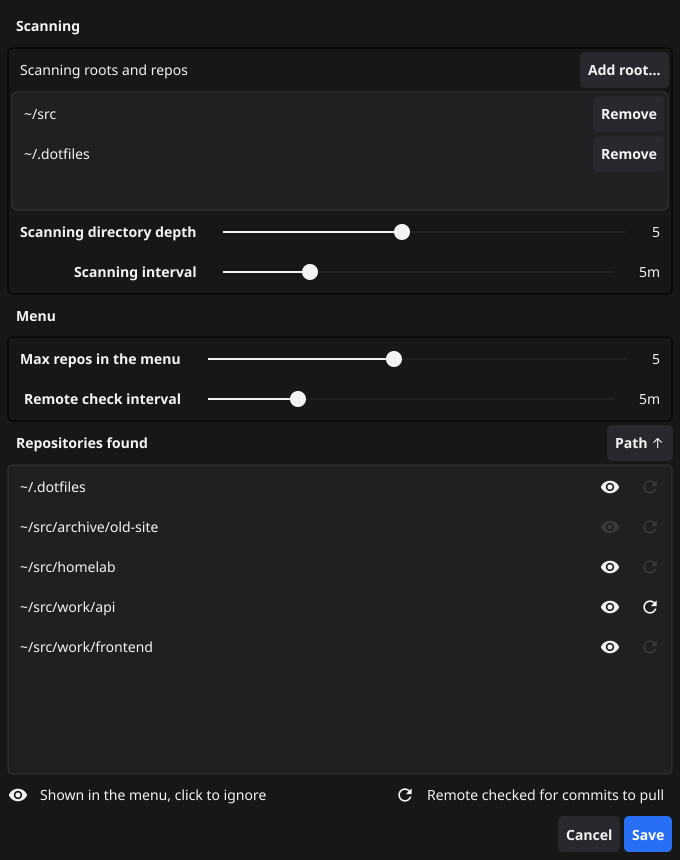
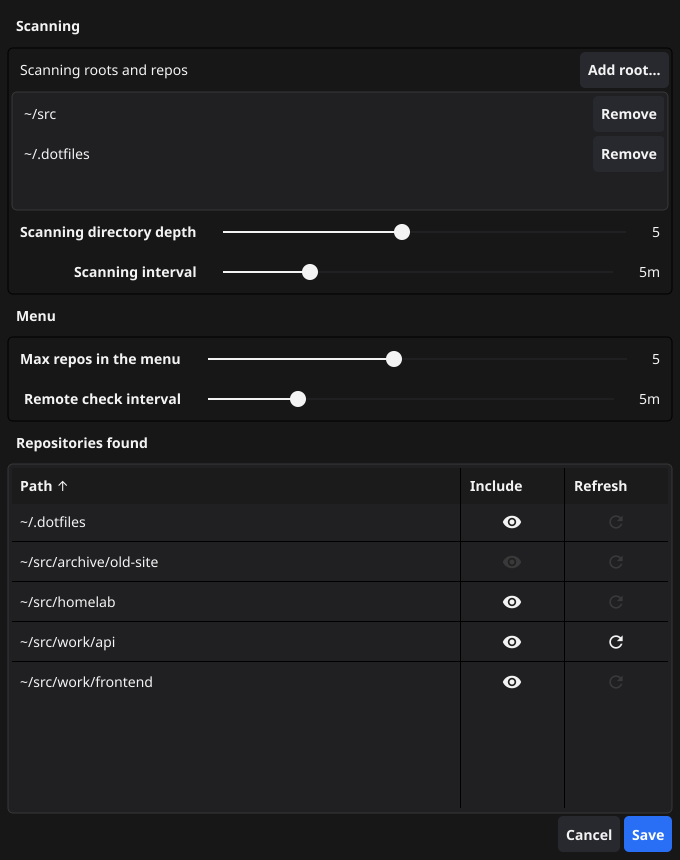
settings: Repositories as a table with sortable Path, Include and Refresh columns

diff --git a/src/settings.go b/src/settings.go
@@ -4,6 +4,7 @@ import (
 	"image/color"
 	"slices"
 	"strconv"
+	"strings"
 	"time"
 
 	"fyne.io/fyne/v2"
@@ -79,40 +80,7 @@ func (t *tray) showSettings() {
 	}
 	buildRoots()
 
-	rows := container.NewVBox()
-	descending := false
-	sortButton := widget.NewButton("", nil)
-	toggle := func(list *[]string, path string) func(bool) {
-		return func(on bool) {
-			*list = slices.DeleteFunc(*list, func(p string) bool { return p == path })
-			if on {
-				*list = append(*list, path)
-			}
-		}
-	}
-	buildRepos := func() {
-		rows.RemoveAll()
-		sortButton.SetText(map[bool]string{false: "Path ↑", true: "Path ↓"}[descending])
-		slices.Sort(found)
-		if descending {
-			slices.Reverse(found)
-		}
-		for _, path := range found {
-			// The eye is lit while the repo is listed, the refresh icon while its
-			// remote is checked
-			ignore := iconToggle(theme.VisibilityIcon(), !slices.Contains(d.Ignore, path), func(on bool) { toggle(&d.Ignore, path)(!on) })
-			remote := iconToggle(theme.ViewRefreshIcon(), slices.Contains(d.CheckRemote, path), toggle(&d.CheckRemote, path))
-			rows.Add(container.NewBorder(nil, nil, nil, container.NewHBox(ignore, remote), widget.NewLabel(tilde(path))))
-		}
-		if len(rows.Objects) == 0 {
-			rows.Add(widget.NewLabel("No repositories found yet."))
-		}
-	}
-	sortButton.OnTapped = func() {
-		descending = !descending
-		buildRepos()
-	}
-	buildRepos()
+	reposTable := t.reposTable(found, &d)
 
 	rootsList := container.NewVScroll(roots)
 	rootsList.SetMinSize(fyne.NewSize(0, 110))
@@ -128,17 +96,10 @@ func (t *tray) showSettings() {
 		widget.NewFormItem("Max repos in the menu", max),
 		widget.NewFormItem("Remote check interval", remoteEvery),
 	))
-	// The sunken list is frame enough
-	reposTitle := widget.NewLabelWithStyle("Repositories found", fyne.TextAlignLeading, fyne.TextStyle{Bold: true})
-	// fyne has no tooltips, so a legend says what the toggles do
-	legend := container.NewHBox(
-		widget.NewIcon(theme.VisibilityIcon()), widget.NewLabel("Shown in the menu, click to ignore"),
-		layout.NewSpacer(),
-		widget.NewIcon(theme.ViewRefreshIcon()), widget.NewLabel("Remote checked for commits to pull"),
-	)
+	// The sunken table is frame enough
 	repos := container.NewBorder(
-		container.NewBorder(nil, nil, nil, sortButton, reposTitle), legend, nil, nil,
-		sunken(container.NewVScroll(rows)),
+		widget.NewLabelWithStyle("Repositories found", fyne.TextAlignLeading, fyne.TextStyle{Bold: true}), nil, nil, nil,
+		sunken(reposTable),
 	)
 
 	save := widget.NewButton("Save", func() {
@@ -173,24 +134,123 @@ func group(title string, content fyne.CanvasObject) fyne.CanvasObject {
 	)
 }
 
-// iconToggle is a flat button showing icon lit when on and greyed out when off.
-func iconToggle(icon fyne.Resource, on bool, changed func(on bool)) *widget.Button {
-	b := widget.NewButtonWithIcon("", nil, nil)
-	b.Importance = widget.LowImportance
-	show := func() {
-		if on {
-			b.SetIcon(icon)
+// reposTable lists the found repositories with a toggle each for ignoring
+// them and checking their remote. Clicking a header sorts by that column.
+func (t *tray) reposTable(found []string, d *Config) fyne.CanvasObject {
+	headers := []string{"Path", "Include", "Refresh"}
+	icons := []fyne.Resource{nil, theme.VisibilityIcon(), theme.ViewRefreshIcon()}
+	// Whether a column's toggle is on for path; the eye is lit while the repo
+	// is included, the refresh icon while its remote is checked
+	on := func(col int, path string) bool {
+		if col == 1 {
+			return !slices.Contains(d.Ignore, path)
+		}
+		return slices.Contains(d.CheckRemote, path)
+	}
+	flip := func(col int, path string) {
+		list := &d.CheckRemote
+		if col == 1 {
+			list = &d.Ignore
+		}
+		if slices.Contains(*list, path) {
+			*list = slices.DeleteFunc(*list, func(p string) bool { return p == path })
 		} else {
-			b.SetIcon(theme.NewDisabledResource(icon))
+			*list = append(*list, path)
 		}
 	}
-	b.OnTapped = func() {
-		on = !on
-		show()
-		changed(on)
+	sortCol, descending := 0, false
+	sortRows := func() {
+		slices.SortFunc(found, func(a, b string) int {
+			c := 0
+			if sortCol > 0 && on(sortCol, a) != on(sortCol, b) {
+				c = map[bool]int{true: -1, false: 1}[on(sortCol, a)]
+			}
+			if c == 0 {
+				c = strings.Compare(a, b)
+			}
+			if descending {
+				return -c
+			}
+			return c
+		})
 	}
-	show()
-	return b
+	sortRows()
+
+	var table *widget.Table
+	table = widget.NewTableWithHeaders(
+		func() (int, int) { return len(found), len(headers) },
+		func() fyne.CanvasObject {
+			b := widget.NewButtonWithIcon("", nil, nil)
+			b.Importance = widget.LowImportance
+			l := widget.NewLabel("")
+			l.Truncation = fyne.TextTruncateEllipsis
+			return container.NewStack(l, b)
+		},
+		func(id widget.TableCellID, o fyne.CanvasObject) {
+			l, b := o.(*fyne.Container).Objects[0].(*widget.Label), o.(*fyne.Container).Objects[1].(*widget.Button)
+			path := found[id.Row]
+			if id.Col == 0 {
+				l.SetText(tilde(path))
+				l.Show()
+				b.Hide()
+				return
+			}
+			l.Hide()
+			b.Show()
+			if on(id.Col, path) {
+				b.SetIcon(icons[id.Col])
+			} else {
+				b.SetIcon(theme.NewDisabledResource(icons[id.Col]))
+			}
+			b.OnTapped = func() {
+				flip(id.Col, path)
+				table.RefreshItem(id)
+			}
+		},
+	)
+	table.ShowHeaderColumn = false
+	table.CreateHeader = func() fyne.CanvasObject {
+		b := widget.NewButton("", nil)
+		b.Importance = widget.LowImportance
+		b.Alignment = widget.ButtonAlignLeading
+		return b
+	}
+	table.UpdateHeader = func(id widget.TableCellID, o fyne.CanvasObject) {
+		b := o.(*widget.Button)
+		text := headers[id.Col]
+		if id.Col == sortCol {
+			text += map[bool]string{false: " ↑", true: " ↓"}[descending]
+		}
+		b.SetText(text)
+		b.OnTapped = func() {
+			descending = id.Col == sortCol && !descending
+			sortCol = id.Col
+			sortRows()
+			table.Refresh()
+		}
+	}
+	// The path takes what the toggle columns leave
+	const toggleWidth = 100
+	table.SetColumnWidth(1, toggleWidth)
+	table.SetColumnWidth(2, toggleWidth)
+	return container.New(&stretchFirst{table, 2 * toggleWidth}, table)
+}
+
+// stretchFirst sizes a table's first column to the width its other columns
+// leave, which Table doesn't do on its own.
+type stretchFirst struct {
+	table *widget.Table
+	rest  float32
+}
+
+func (s *stretchFirst) Layout(objects []fyne.CanvasObject, size fyne.Size) {
+	// Less the separators between the columns and the scroller's padding
+	s.table.SetColumnWidth(0, max(size.Width-s.rest-2*theme.SeparatorThicknessSize()-2*theme.Padding(), 100))
+	objects[0].Resize(size)
+}
+
+func (s *stretchFirst) MinSize(objects []fyne.CanvasObject) fyne.Size {
+	return objects[0].MinSize()
 }
 
 // sunken puts content on the input background with a border, the way lists
